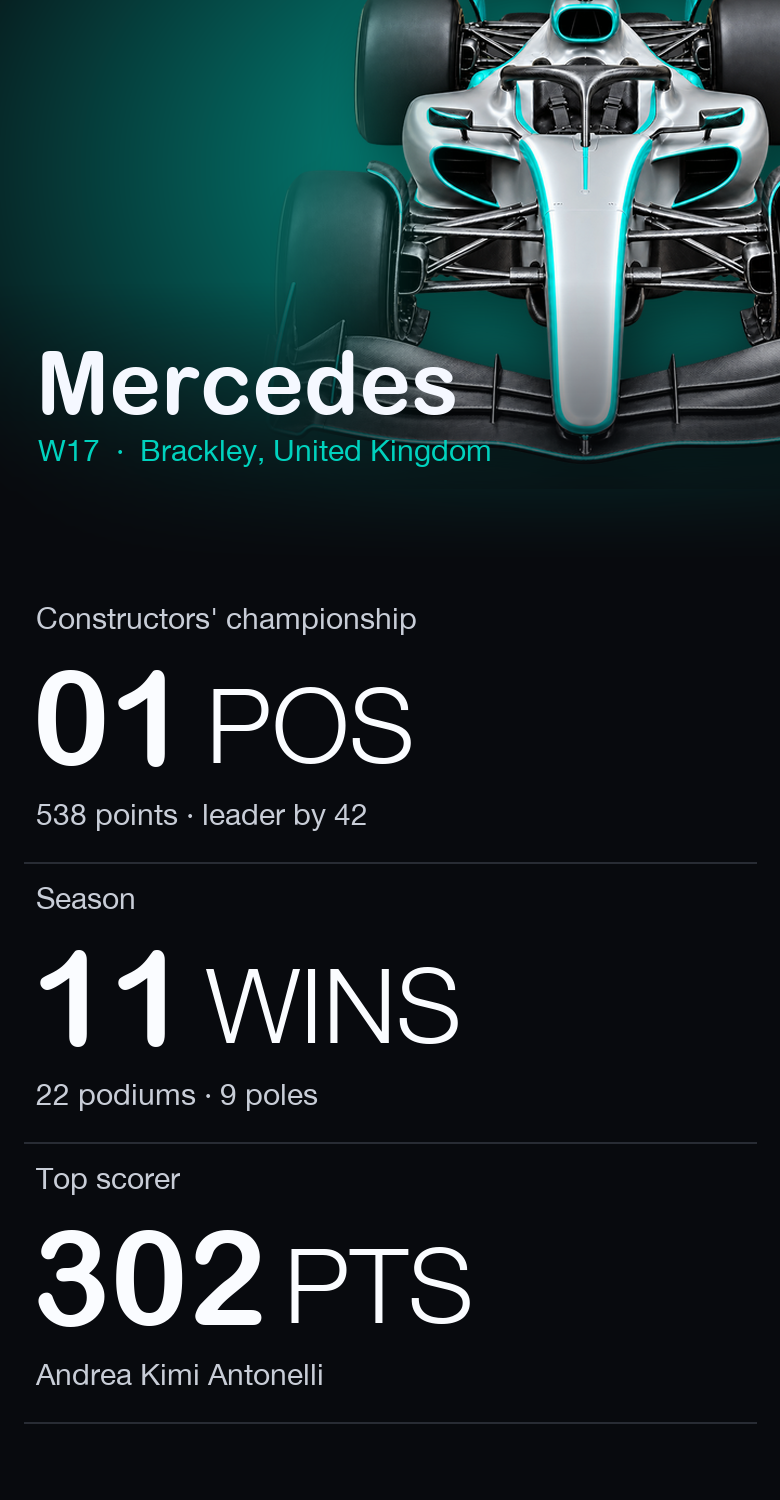
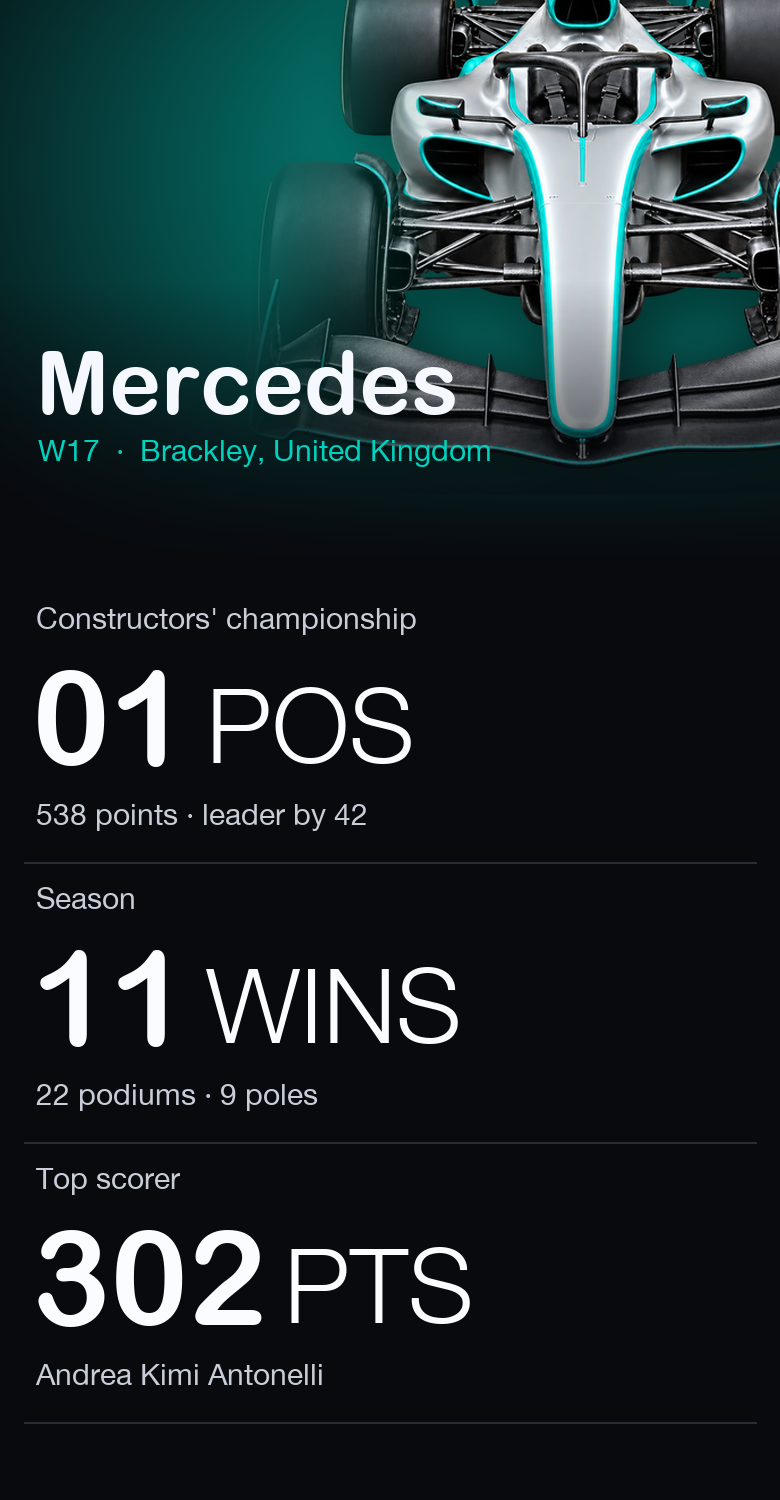
Team sheet mock: car slightly bigger

Changed region(s): [[0.4, 0.0, 1.0, 0.3067], [0.3385, 0.1227, 0.3692, 0.1533]]

diff --git a/scripts/design/mock_profile_sheets.py b/scripts/design/mock_profile_sheets.py
@@ -30,8 +30,8 @@ def team(out):
     car = trim(Image.open('Marketing/raw/art/Silver graphite open-wheel with turquoise accents.png').convert('RGBA'))
     car = car.resize((600, int(car.height*600/car.width)), Image.LANCZOS)
     # straight down from the top, on the right like the driver: the front half enters the sheet
-    car = car.resize((650, int(car.height*650/car.width)), Image.LANCZOS)
-    x0, y0 = W - car.width + 130, -car.height + 465
+    car = car.resize((680, int(car.height*680/car.width)), Image.LANCZOS)
+    x0, y0 = W - car.width + 142, -car.height + 470
     car = fade_left(car, 0.3)
     sh = Image.new('RGBA', car.size, (0,0,0,0)); sh.putalpha(car.getchannel('A').point(lambda a: int(a*0.5)))
     hdr.alpha_composite(sh.filter(ImageFilter.GaussianBlur(22)), (x0+10, y0+24))
